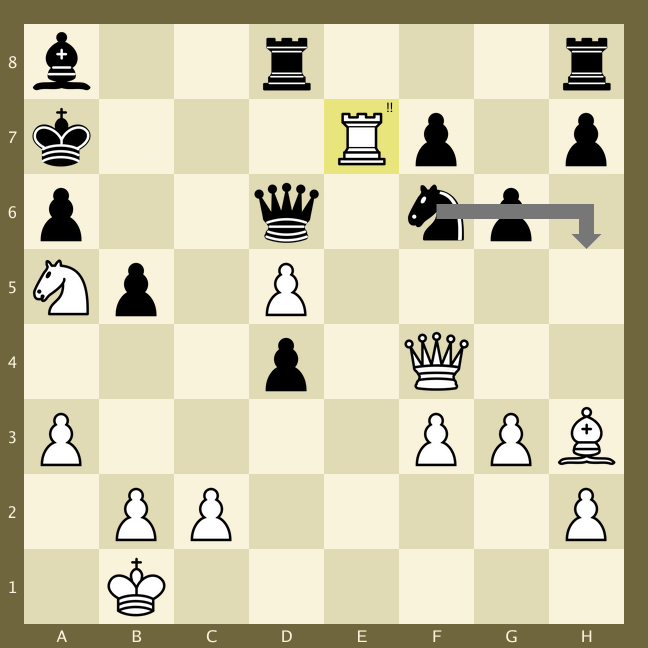
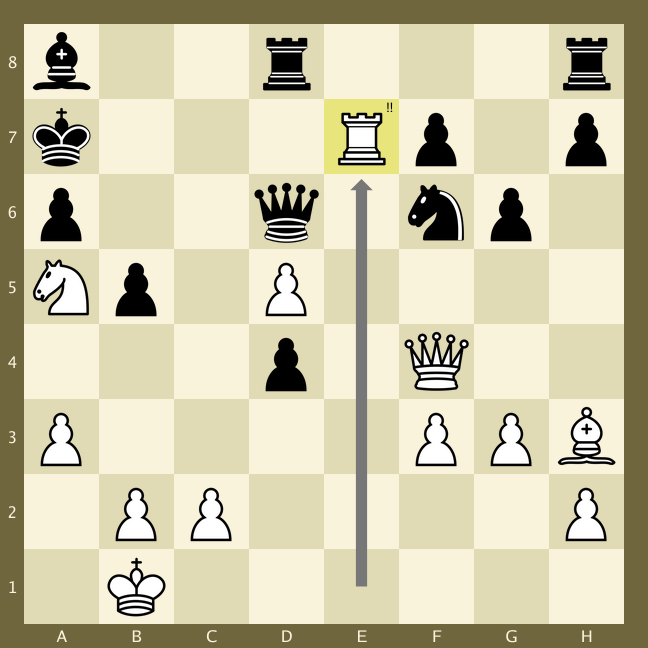
Fixed medium example

Changed region(s): [[0.5247, 0.2778, 0.5864, 0.9259], [0.6481, 0.3086, 0.9259, 0.4012]]

diff --git a/examples/medium/medium.go b/examples/medium/medium.go
@@ -17,7 +17,7 @@ func main() {
 	// Highlight square e7
 	// Annotate square e7 with "!!"
 	// Show move e1-e7
-	ctx.AddHighlight("e7").AddAnnotation("e7", "!!").AddMove("f6", "h5")
+	ctx.AddHighlight("e7").AddAnnotation("e7", "!!").AddMove("e1", "e7")
 
 	// Render the image
 	const fen = "b2r3r/k3Rp1p/p2q1np1/Np1P4/3p1Q2/P4PPB/1PP4P/1K6 b - - 1 25"
